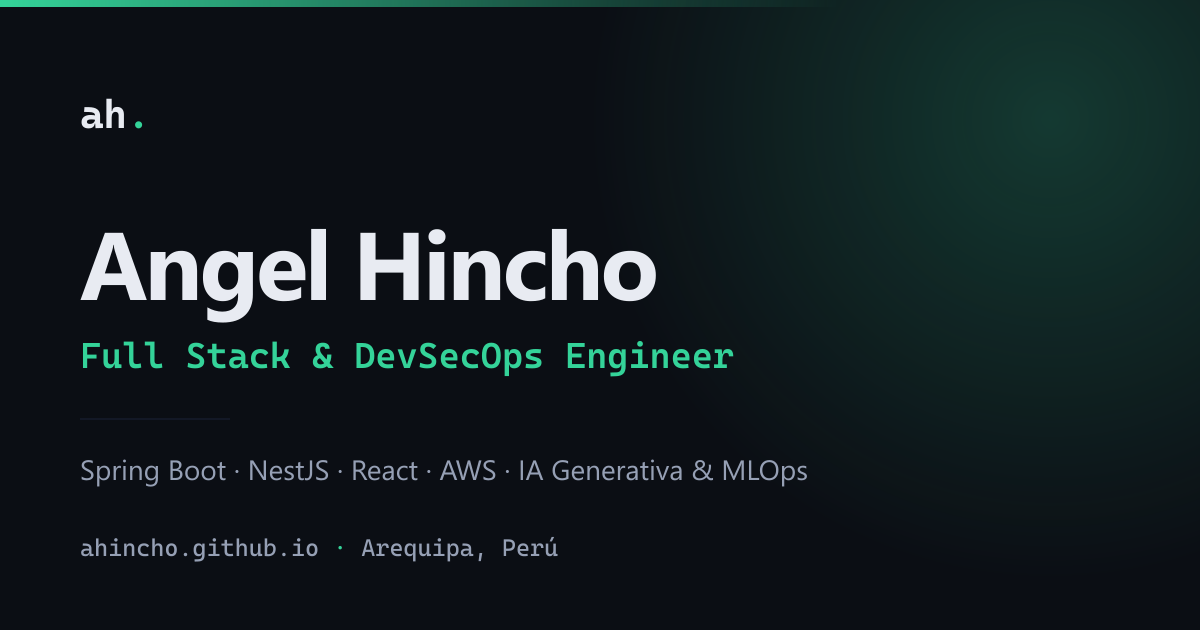
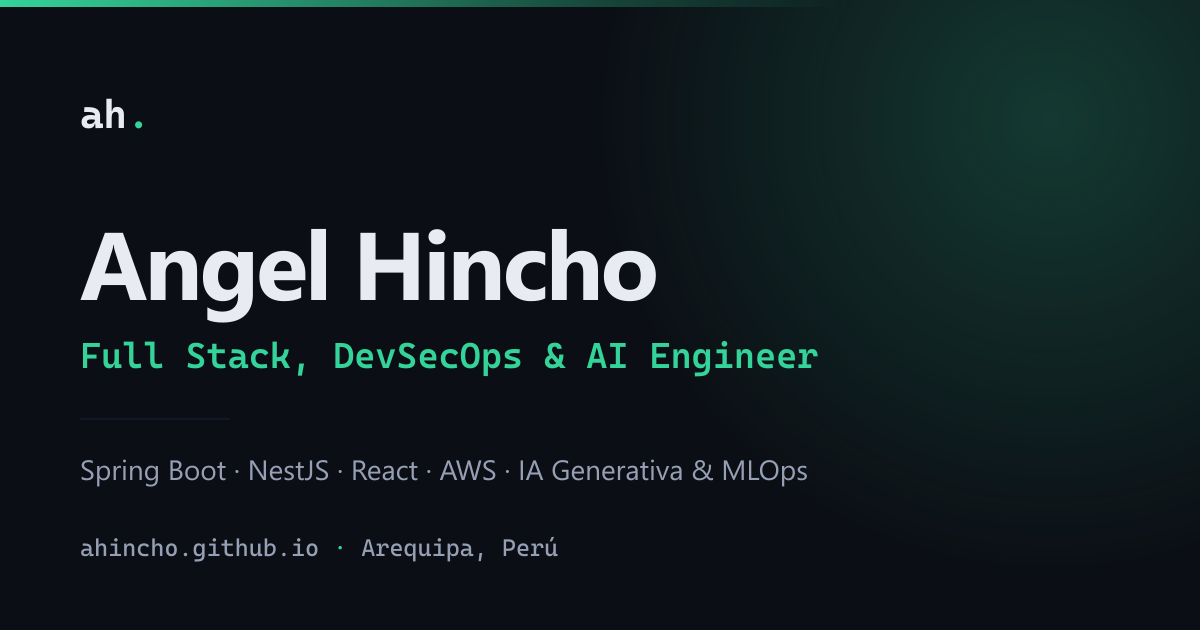
fix: put AI in the sharing card too
The card still read "Full Stack & DevSecOps Engineer". The role was written by
hand into the image script, so renaming it in the dictionaries, the page title,
the hero and the structured data left the one copy nobody looks at behind.

The script now reads hero.role from the dictionary and the card is regenerated,
so the role exists in exactly one place. Same drift as the corpus that once
kept the assistant from describing itself; same fix.

Anyone who has already seen the old card will keep seeing it until whichever
platform cached it fetches the page again.

Changed region(s): [[0.2467, 0.5429, 0.6783, 0.6032]]

diff --git a/scripts/og-image.ts b/scripts/og-image.ts
@@ -5,10 +5,14 @@
 // ones as a laptop. Generating it here and checking it in keeps the card deterministic.
 //
 // Run with: pnpm og
-import { writeFile, mkdir } from 'node:fs/promises';
+import { mkdir } from 'node:fs/promises';
 import { dirname, resolve } from 'node:path';
 import { fileURLToPath } from 'node:url';
 import sharp from 'sharp';
+import { es } from '../src/i18n/es.ts';
+
+/** SVG is XML, and the role has an ampersand in it. */
+const xml = (text: string) => text.replace(/&/g, '&amp;').replace(/</g, '&lt;');
 
 const root = resolve(dirname(fileURLToPath(import.meta.url)), '..');
 const out = resolve(root, 'public/og.png');
@@ -45,7 +49,7 @@ const svg = `<svg xmlns="http://www.w3.org/2000/svg" width="${WIDTH}" height="${
   <text x="80" y="128" font-family="${MONO}" font-size="40" font-weight="700" fill="${TEXT}">ah<tspan fill="${ACCENT}">.</tspan></text>
 
   <text x="80" y="300" font-family="${SANS}" font-size="96" font-weight="700" fill="${TEXT}" letter-spacing="-3">Angel Hincho</text>
-  <text x="80" y="368" font-family="${MONO}" font-size="36" font-weight="600" fill="${ACCENT}">Full Stack &amp; DevSecOps Engineer</text>
+  <text x="80" y="368" font-family="${MONO}" font-size="36" font-weight="600" fill="${ACCENT}">${xml(es.hero.role)}</text>
 
   <rect x="80" y="418" width="150" height="2" fill="${CARD}" />
 

diff --git a/.changeset/og-card-role.md b/.changeset/og-card-role.md
@@ -1,0 +1,11 @@
+---
+'ahincho-portfolio': patch
+---
+
+The social sharing card still said "Full Stack & DevSecOps Engineer". The role
+was written by hand into the image script, so renaming it everywhere else left
+the card behind — the same drift that once stopped the assistant describing
+itself.
+
+The script now reads `hero.role` from the dictionary, which makes the
+dictionary the only place the role exists, and the card is regenerated.
